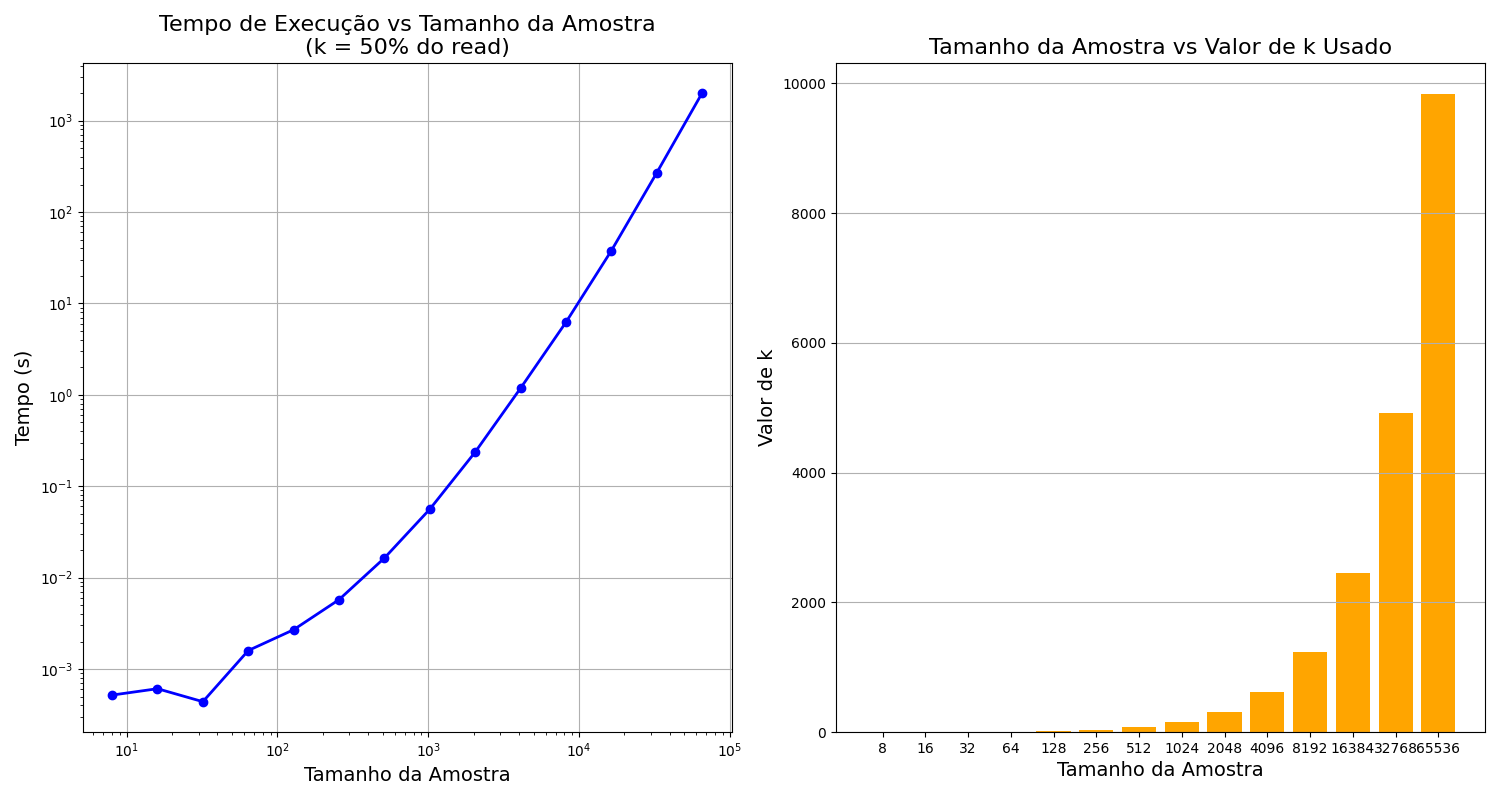
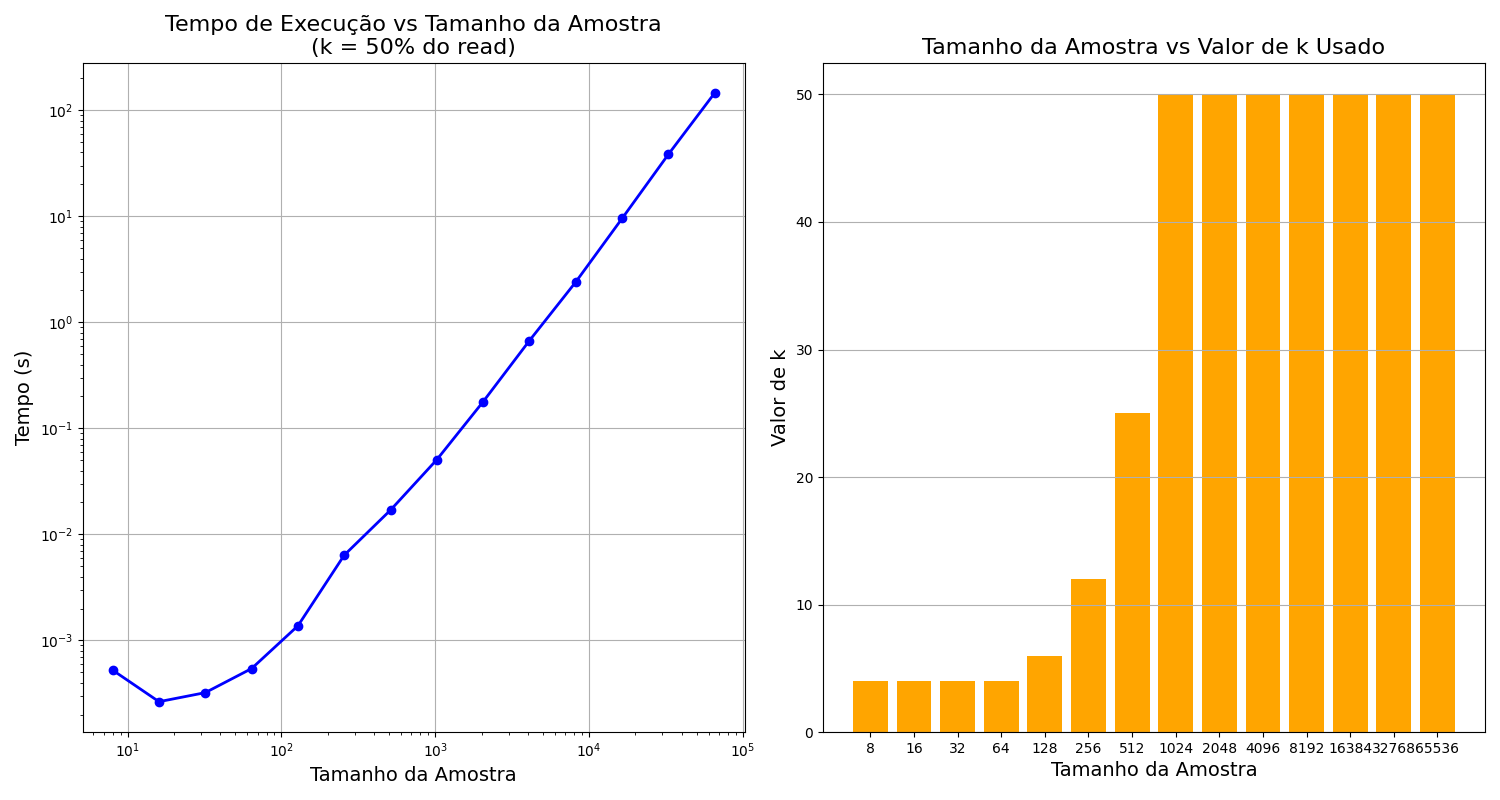
Alterações finais

diff --git a/main.py b/main.py
@@ -27,17 +27,17 @@ def main():
                 print(" Arquivo de genoma não encontrado.")
                 return
             genoma = Utils.ler_arquivo(caminho)
-            read_size = 40
-            k = 20
-            cobertura = 1.0
-            temperatura = 0
+            read_size = 120
+            k = 80
+            cobertura = 0.7
+            temperatura = 10
             nome_base = os.path.splitext(nome_arq)[0]
 
         elif escolha == '2':
             nome_arq = "genoma_tamanho_8.txt"
             caminho = os.path.join("data", nome_arq)
             genoma = Utils.ler_arquivo(caminho)
-            read_size = 8
+            read_size = 5
             k = 4
             cobertura = 1.0
             temperatura = 0
@@ -47,8 +47,8 @@ def main():
             nome_arq = "genoma_tamanho_80.txt"
             caminho = os.path.join("data", nome_arq)
             genoma = Utils.ler_arquivo(caminho)
-            read_size = 80
-            k = 7
+            read_size = 20
+            k = 8
             cobertura = 1.0
             temperatura = 0
             nome_base = os.path.splitext(nome_arq)[0]
@@ -57,8 +57,8 @@ def main():
             nome_arq = "genoma_tamanho_800.txt"
             caminho = os.path.join("data", nome_arq)
             genoma = Utils.ler_arquivo(caminho)
-            read_size = 30
-            k = 15
+            read_size = 60
+            k = 50
             cobertura = 1.0
             temperatura = 0
             nome_base = os.path.splitext(nome_arq)[0]
@@ -67,8 +67,8 @@ def main():
             nome_arq = "genoma_tamanho_8000.txt"
             caminho = os.path.join("data", nome_arq)
             genoma = Utils.ler_arquivo(caminho)
-            read_size = 800
-            k = 20
+            read_size = 100
+            k = 50
             cobertura = 1.0
             temperatura = 0
             nome_base = os.path.splitext(nome_arq)[0]
@@ -77,8 +77,8 @@ def main():
             nome_arq = "genoma_tamanho_80000.txt"
             caminho = os.path.join("data", nome_arq)
             genoma = Utils.ler_arquivo(caminho)
-            read_size = 60
-            k = 30
+            read_size = 80
+            k = 40
             cobertura = 1.0
             temperatura = 0
             nome_base = os.path.splitext(nome_arq)[0]

diff --git a/benchmark.py b/benchmark.py
@@ -21,7 +21,7 @@ def rodar_benchmark():
 
         for tamanho in tamanhos:
             genoma = manager.gerar_genoma(tamanho)
-            read_size = max(8, int(tamanho * 0.3))
+            read_size = max(4, min(100, min(tamanho, int(tamanho * 0.1))))
             k = max(4, int(read_size * 0.5))
             cobertura = 1.0
             temperatura = 0
